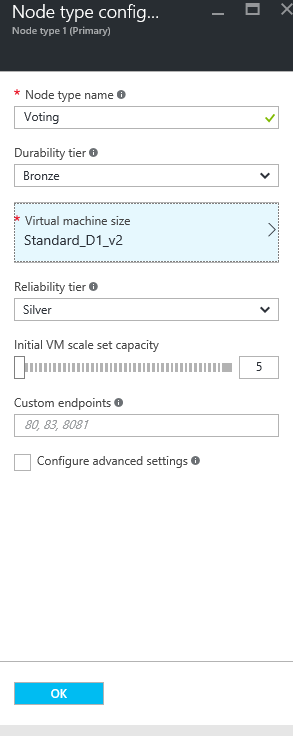
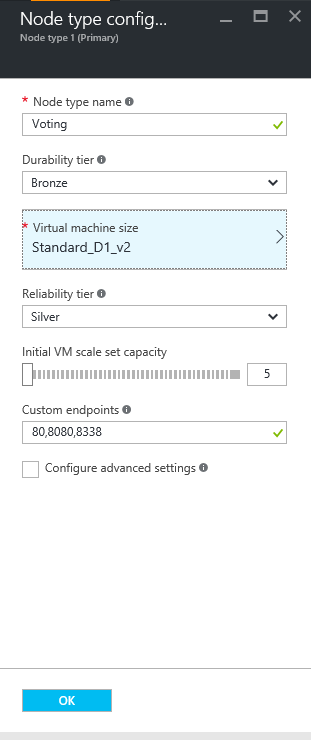
updated service lab azure provisioning section to include http endpoints

diff --git a/HOL-3-Service-Fabric/SFLabP20X.md b/HOL-3-Service-Fabric/SFLabP20X.md
@@ -647,9 +647,11 @@ Create a new Service Fabric Cluster
 
         2.  Select the Virtual machine size Standard\_D1\_V2 from the list and click Select
 
-        3.  Leave every other settings as is and click OK
+        3.  In the Custom endpoints section, enable few http endpoints including the endpoint we are using for our application. (80,8080,8338) so that we can verify the application in Azure after deployment
 
-            <img src="./media/image19.png" width="293" height="736" />
+        4.  Leave every other settings as is and click OK
+
+            <img src="./media/image19.png" width="311" height="739" />
 
 3.  In the “Cluster Configuration tab”, leave other settings as is as shown below and click OK
 
@@ -673,5 +675,7 @@ Task 5: Deploy the application to Azure
 2.  Open the remote cluster in the service fabric explorer. For this, navigate to following explorer URL (Alternatively you can click on the explorer link in the service fabric cluster in Azure portal. To get to the cluster, select the resource group, select the service fabric cluster from the list of resources)
 
     <img src="./media/image23.png" width="535" height="81" />
+
+3.  Verify your application is running in Azure. Access the voting service application by navigating to the following URL
 
 In this lab, you learned to create a simple service fabric application, used visual studio and service fabric explorer to develop and manage the application and deploy to local cluster and also in Azure.
